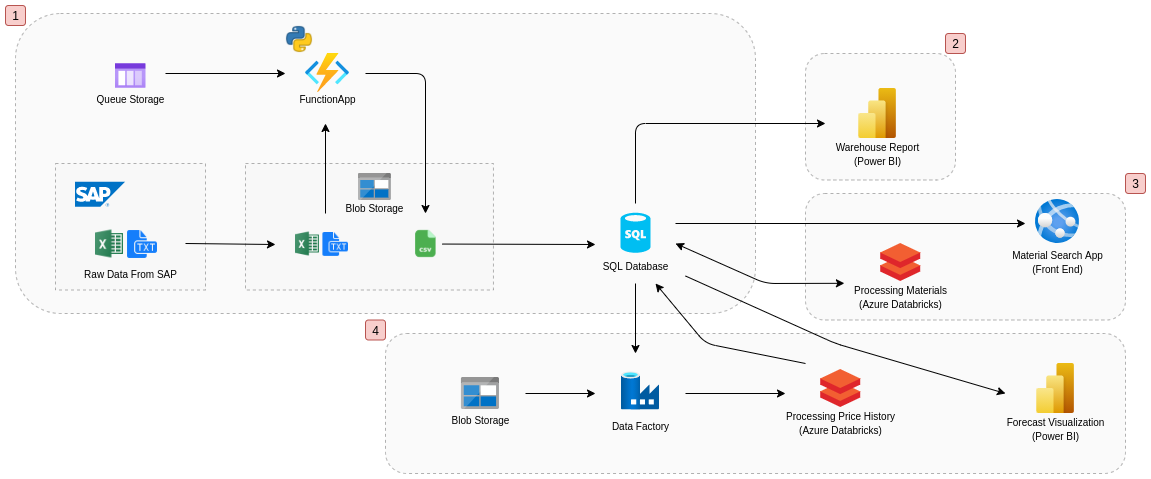
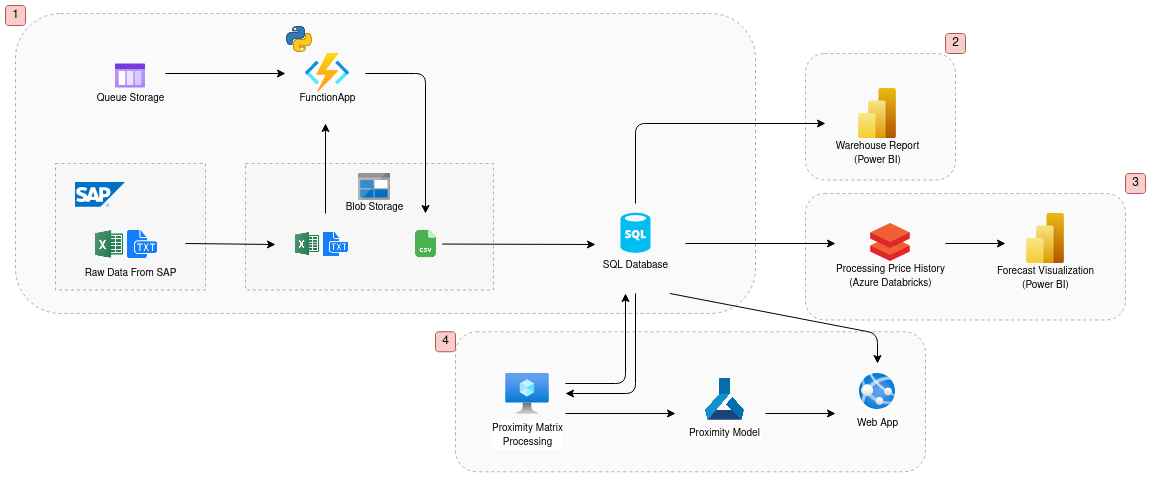
👌 IMPROVE: Update code & documentation

diff --git a/README.md b/README.md
@@ -10,41 +10,55 @@
   <img src="images/pipeline.png">
 </div>
 
-The pipeline is divided in **four** sections. The first part is the ETL pipeline. We initially load the data inside a Blob Storage, we use the Azure FunctionApp to transform it with a trigger from the Queue Storage, load it back into the Blob Storage in a cleaned up CSV format. With the file properly formatted, we BULK INSERT it into the Azure SQL Database, having it ready to be used by multiple applications[1].
+The pipeline is divided in **four** sections. The first part is the ETL pipeline. We initially load the data inside a Blob Storage, we use the Azure FunctionApp to transform it with a trigger from the Queue Storage, load it back into the Blob Storage in a cleaned up CSV format. With the file properly formatted, we can then BULK INSERT it into the Azure SQL Database, having it ready to be used by multiple applications[1].
 
-Then we have three applications. The first is the development of a Power BI report that accesses the database and makes use of the created views [2]. The second uses Azure Databricks to process the material descriptions, cluster them into different groups and add this information into the data to be used by a search application[3]. The final application is the use of Azure Databricks to make predictions on material prices. We use these results to build visualizations again on Microsoft Power BI[4].
+Then we have three applications. The first is the development of a Power BI report that accesses the database and makes use of the created views [2]. The second uses Azure Databricks to process the material prices, and use the results to make new visualizations in Power BI[3]. The final application is a Web App that can be used to search for materials and makes use of two types of processing, both of them with an adapted version of the levenshtein distance. The first processing is done with the whole dataset, making use of KNN for clustering, the clusters are then accessible through the database. The second processing is done on-the-go with a levenshtein model deployed in Azure Machine Learning. In this latter case we are able to make requests to an endpoint to obtain the closest materials.[4].
 
 Through this repository it is possible to navigate to all of the sections of this project. This includes:
 
-1. **ConvertData**: repository for the python source code for the transformation done in Azure FunctionApp;
+1. **ConvertData**: repository for the python source code for the transformations done in Azure FunctionApp, it also allows to do transformations locally if python is installed;
 2. **Deploy-PL-DB**: repository for the T-SQL source code for the deployment of data into the Azure SQL Database;
-3. **Material-Search**: repository for the python source code for the material description comparison algorithm and trained clustering models;
-4. **Material-Price-Forecasting**: repository for the python source code for the prediction of prices for materials.
+3. **Material-Search**: general repository with the jupyter notebook containing the data exploration for material description comparison algorithm and trained clustering models;
+4. **Material-Search-Deployment**: Deployment of the code into a VM to make the material clusters and to make the model and endpoint deployment into Azure Machine Learning
+5. **Search-App-Code**: The Search-App source code
+4. **Material-Price-Forecasting**: repository for azure databricks deployment containing the jupyter notebook with the forecasting of prices.
 
 ## Requirements
+
+### Bash
+Most of the deployment is being done using Azure CLI for bash. Some commands might need to be changed in order to run in Windows, so for this to be runnable we will consider it a requirement to execute bash scripts.
 
 ### Azure CLI
 The main method used to communicate with the Azure cloud, to provision and handle the different resources is the [Azure CLI](https://docs.microsoft.com/en-us/cli/azure/install-azure-cli). Since it is intended to save the full deployment in code, and keep a certain level of security, the CLI allows the efficient handling of the different resources.
 
+To startup Azure CLI it is needed to do the login and set the right subscription.
+```bash
+az login
+# It should prompt you to do a login in the browser
+
+# To select the right subscription to use you can select one of the right subscriptions from your list
+az account list -o table
+az account set --subscription "subscription_1"
+```
+
+
 #### Setting up Credentials
 In order to use AZ CLI without having to provide credentials all the time, we provide the login information by running `az login`.
 
-### AZCopy
-[AZCopy](https://docs.microsoft.com/en-us/azure/storage/common/storage-use-azcopy-v10) is used to transfer files into, between and out of the Azure Data Lake Storage. 
-
 ### SQLCMD
-[SQLCMD](https://docs.microsoft.com/en-us/sql/tools/sqlcmd-utility?view=sql-server-ver15) is used to communicate with the SQL Server within the Azure SQL Database. We use it to run queries inside the database, allowing to insert data, delete and modify as well as modify its configurations and schemas.
+[SQLCMD](https://docs.microsoft.com/en-us/sql/tools/sqlcmd-utility?view=sql-server-ver15) is used to communicate with the SQL Server within the Azure SQL Database. We use it to run queries inside the database, allowing to insert data, delete as well as modify its configurations and schemas.
 
 ### Azure Functions Core Tools
 [Azure Functions Core Tools](https://docs.microsoft.com/en-us/azure/azure-functions/functions-run-local?tabs=linux%2Ccsharp%2Cbash) allows the setting up of the FunctionApp locally and deploying it into the FunctionApp service. 
+
 ## Main Deployment
 
-To initialize the deployment we have to first introduce the data in the data/raw-data/ folder and run the following command:
+As a first deployment we upload everything into a Data Lake Storage Account in Azure and process all of the data, finalizing with a deployment into an Azure SQL Database. All of this is done by executing the `deployment.sh` file. We can do this by running the following command:
 ```bash
 bash deployment.sh
 ```
 
-With the whole ADLS setup concluded, we use AZCopy to transfer files from data/raw-data storage into the ADLS raw-data/ file storage. 
+We deploy using AZCopy to transfer files from data/deployment into the ADLS deployment/ file storage. 
 
 ```bash
 ./azcopy copy \
@@ -53,15 +67,13 @@ With the whole ADLS setup concluded, we use AZCopy to transfer files from data/r
     --recursive
 ```
 
-To finalize we just need to create the Queue Storage to receive FunctionApp triggers and run the rest of the deployments to make the needed transformations and data deployments into the SQL Database.
-
 ## Maintenance Deployment
 
 The maintenance deployment is deployed when the whole infrastructure is already provisioned and we just need to add data on top of what already exists.
 
 Many commands have to be rerun due to security reasons, but most are made simpler and faster such as the addition of MB51 and MCBA data.
 
-To run this deployment we should just run the following line:
+To run this deployment we should just run the following line of code:
 ```bash
 bash maintenance.sh
 ```
